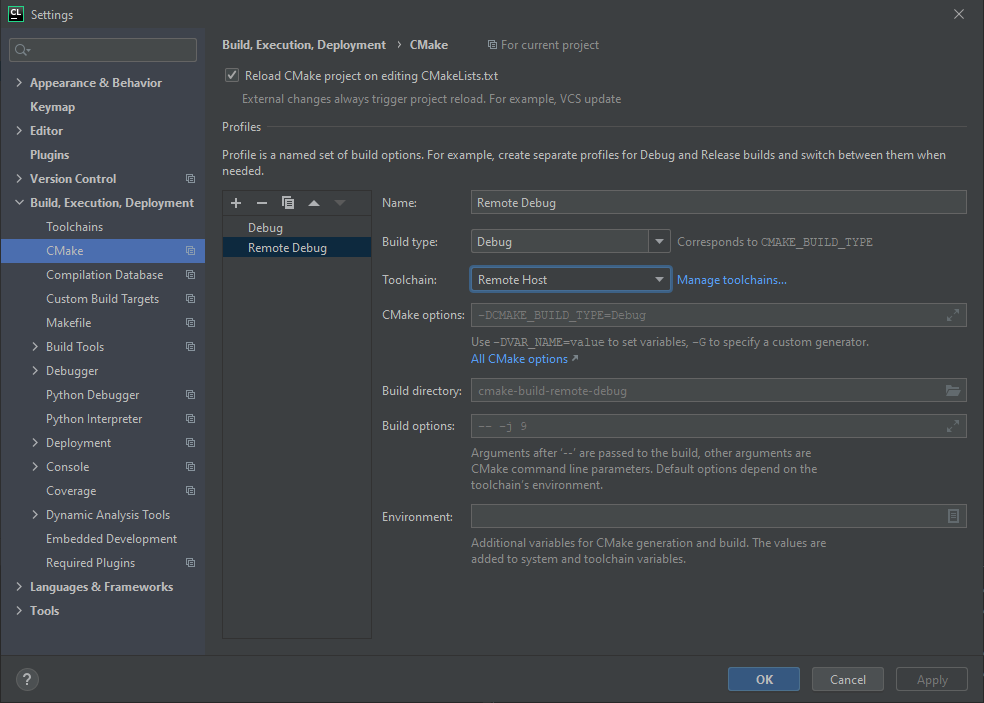
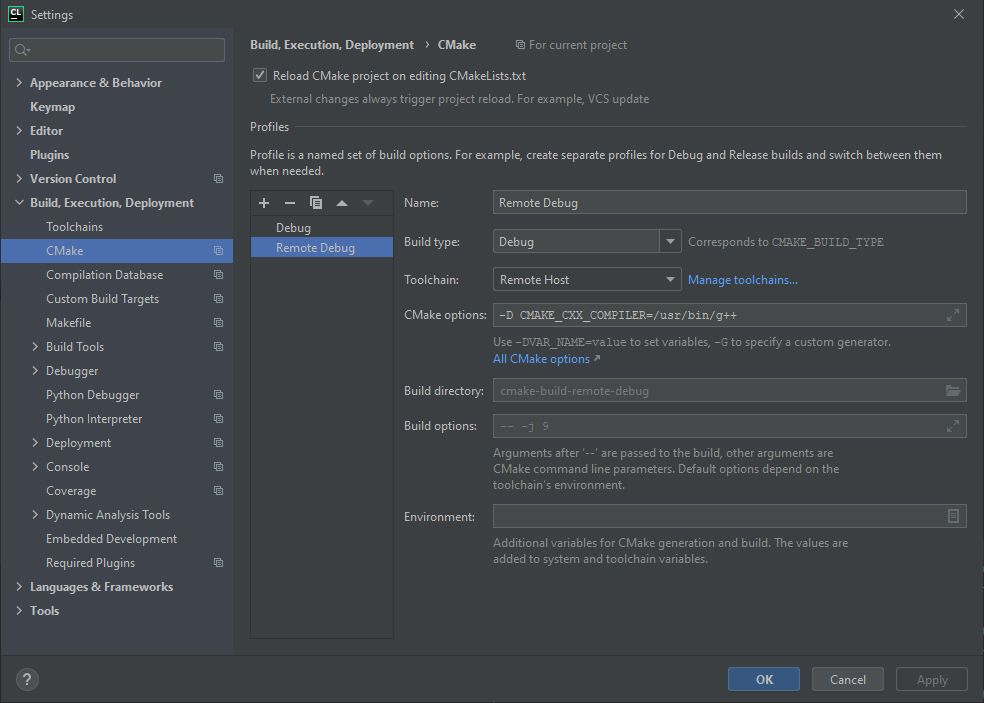
use g++

diff --git a/clion.md b/clion.md
@@ -3,6 +3,7 @@ The following are steps to run your c++ code on the ECE Ubuntu servers for testi
 
 **This tutorial assumes that you have already created a Clion project. Please click apply after you make each change**
 
+Changes to project folder will be automatically synced to ECE Ubuntu every time you change a file. Clion may not sync file deletions correctly.
 ## Requirements
 You must be able to connect to the University of Waterloo VPN.
 
@@ -45,6 +46,7 @@ Go to the mapping tab and change the deployment path to where you want to place 
 ## Creating a remote CMake config
 File > Settings > Build, Execution, Deployment > CMake. Create a new CMake profile by clicking +. Change the name to Remote Debug, build type to Debug, and toolchain to Remote Host
 
+**Add -D CMAKE_CXX_COMPILER=/usr/bin/g++ to CMake options to ensure CMake uses g++ to compile** 
 ![alt text](readme-images/CM1.PNG)
 
 ## Changing Build Configuration
@@ -54,6 +56,11 @@ Exit settings and click the drop down at the top right corner of clion beside th
 ![alt text](readme-images/CF1.PNG)
 
 **If you do not see the option, wait until Clion finish configuring everything and it should show up.**
+
+## Use C++ 2011
+To change the c++ version to 2011, go to CMakeLists.txt file in your project folder and change CMAKE_CXX_STANDARD to 11.
+
+![alt text](readme-images/V1.PNG)
 
 ## Troubleshooting
 You might see an error about CMake minimum version. If you do, change the cmake_minimum_required line in CMakeLists.txt to the CMake version available on the remote server.
